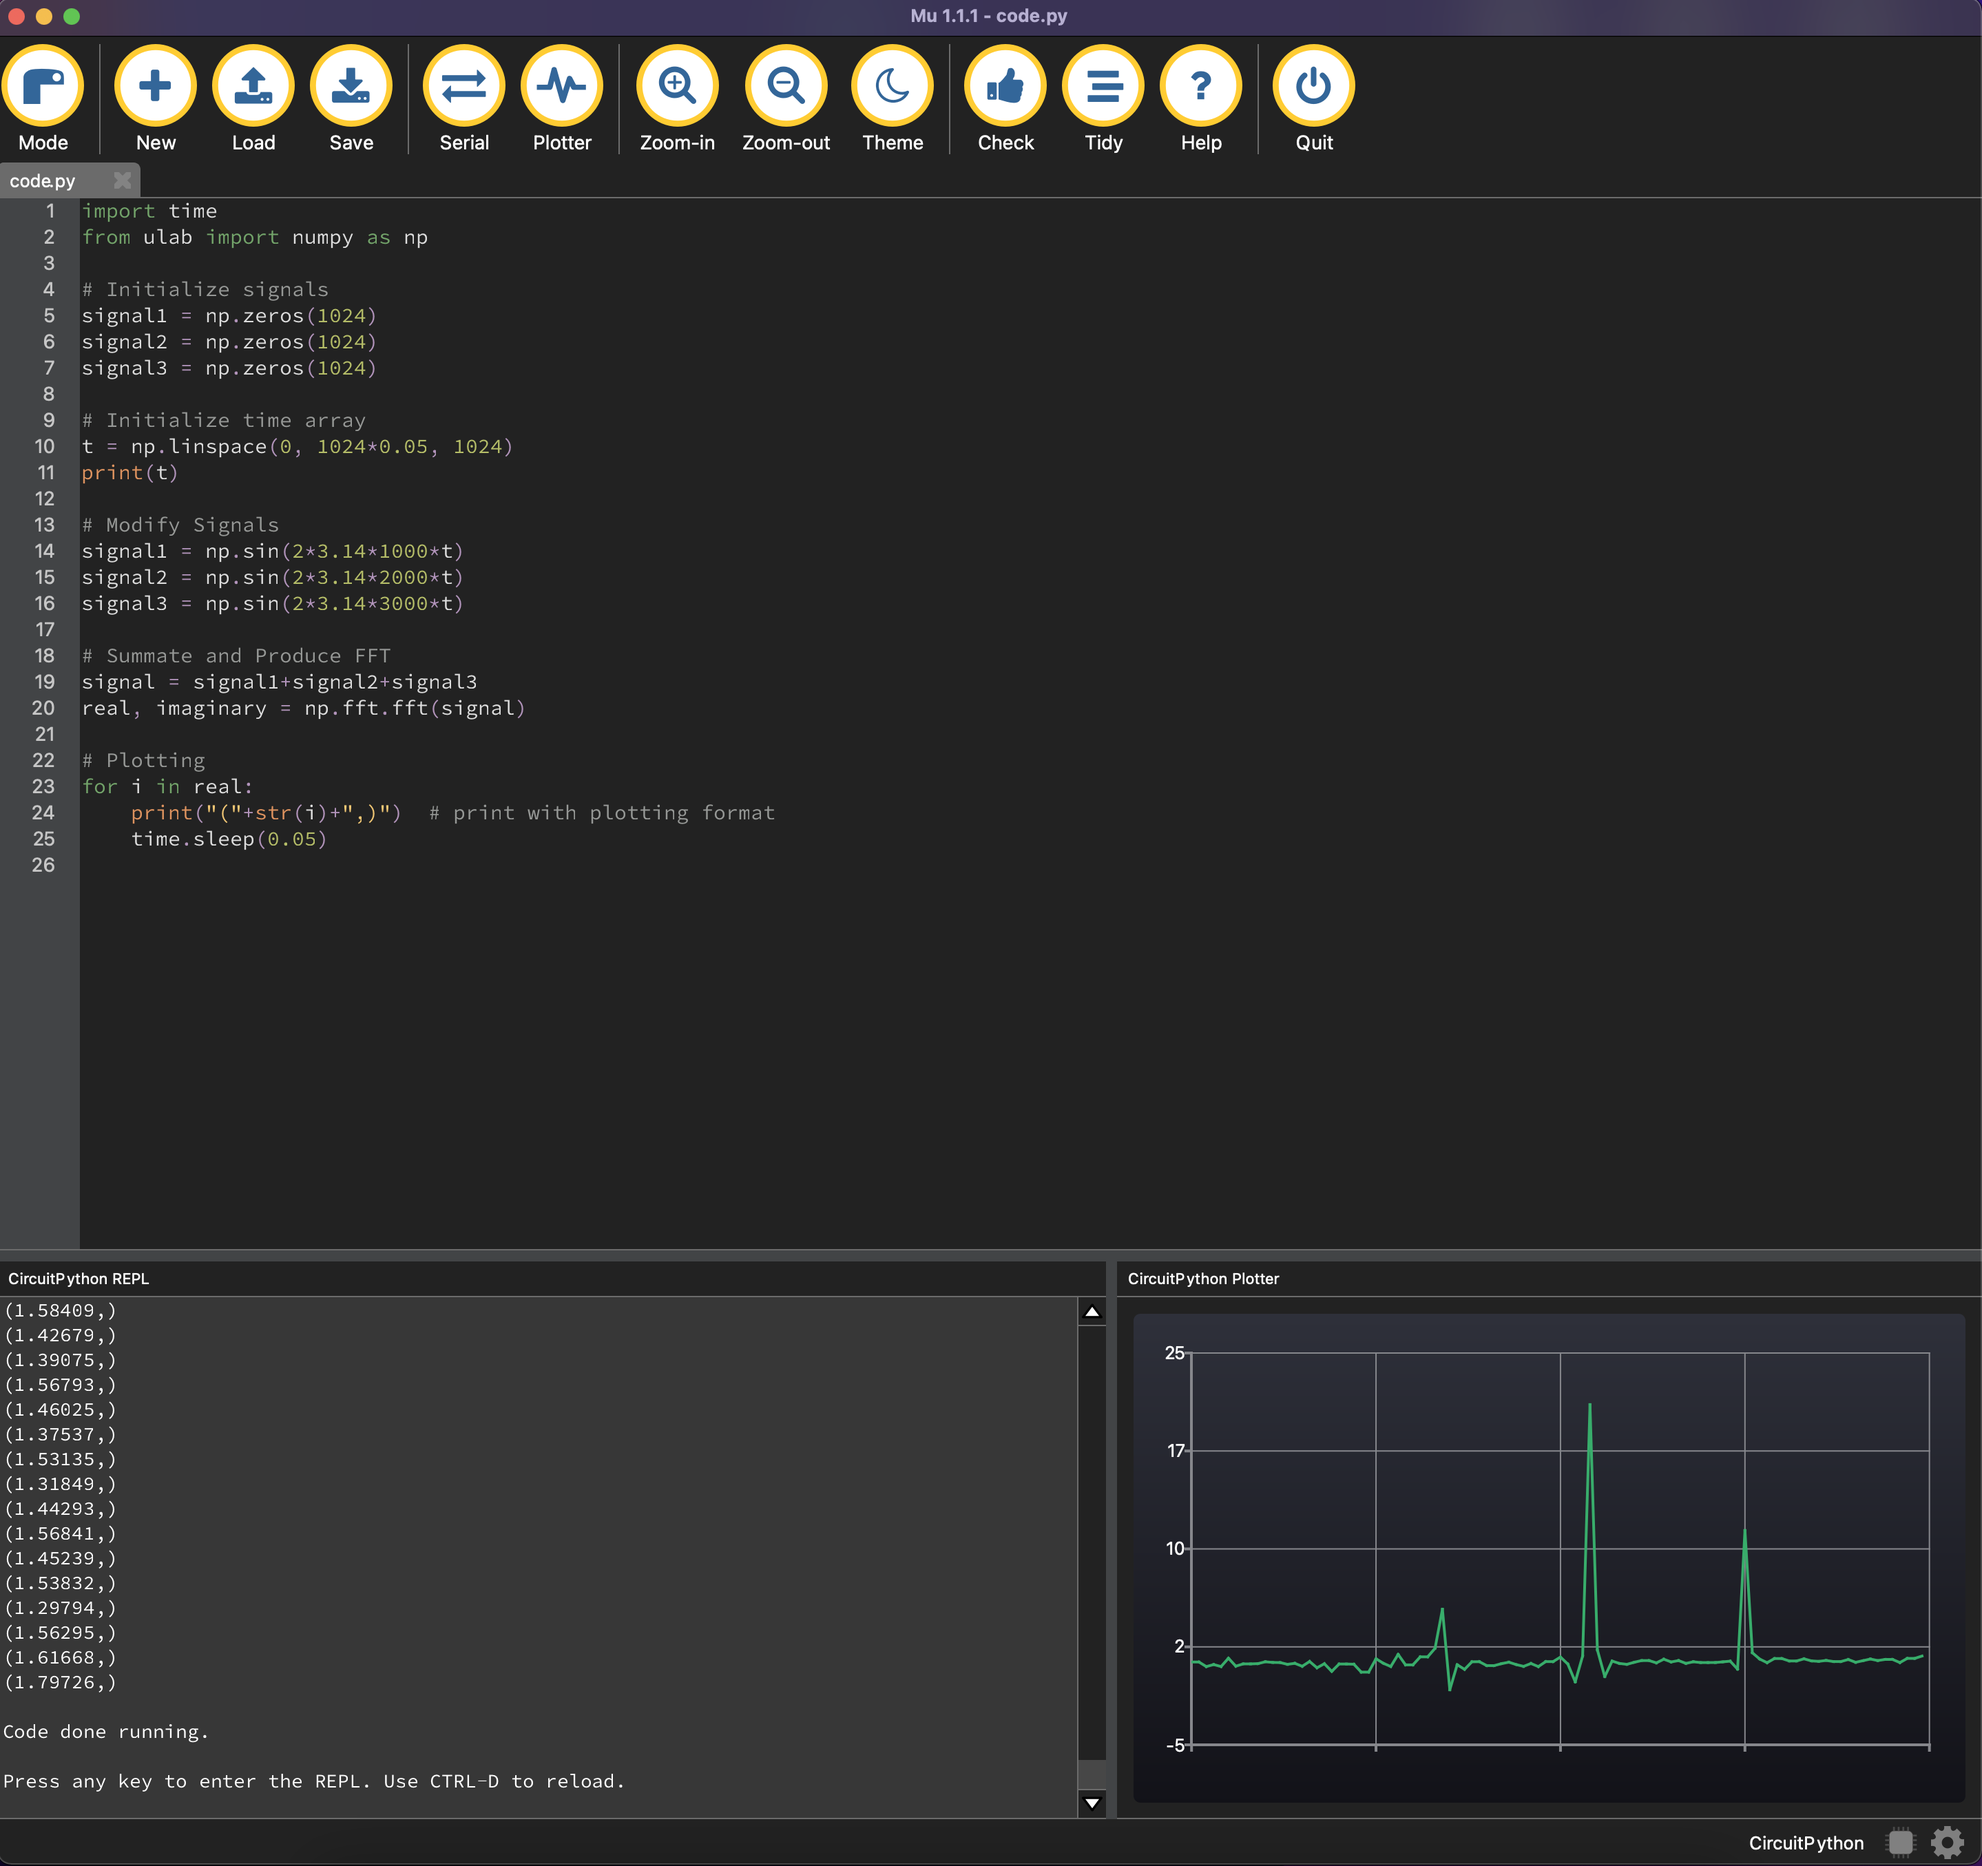
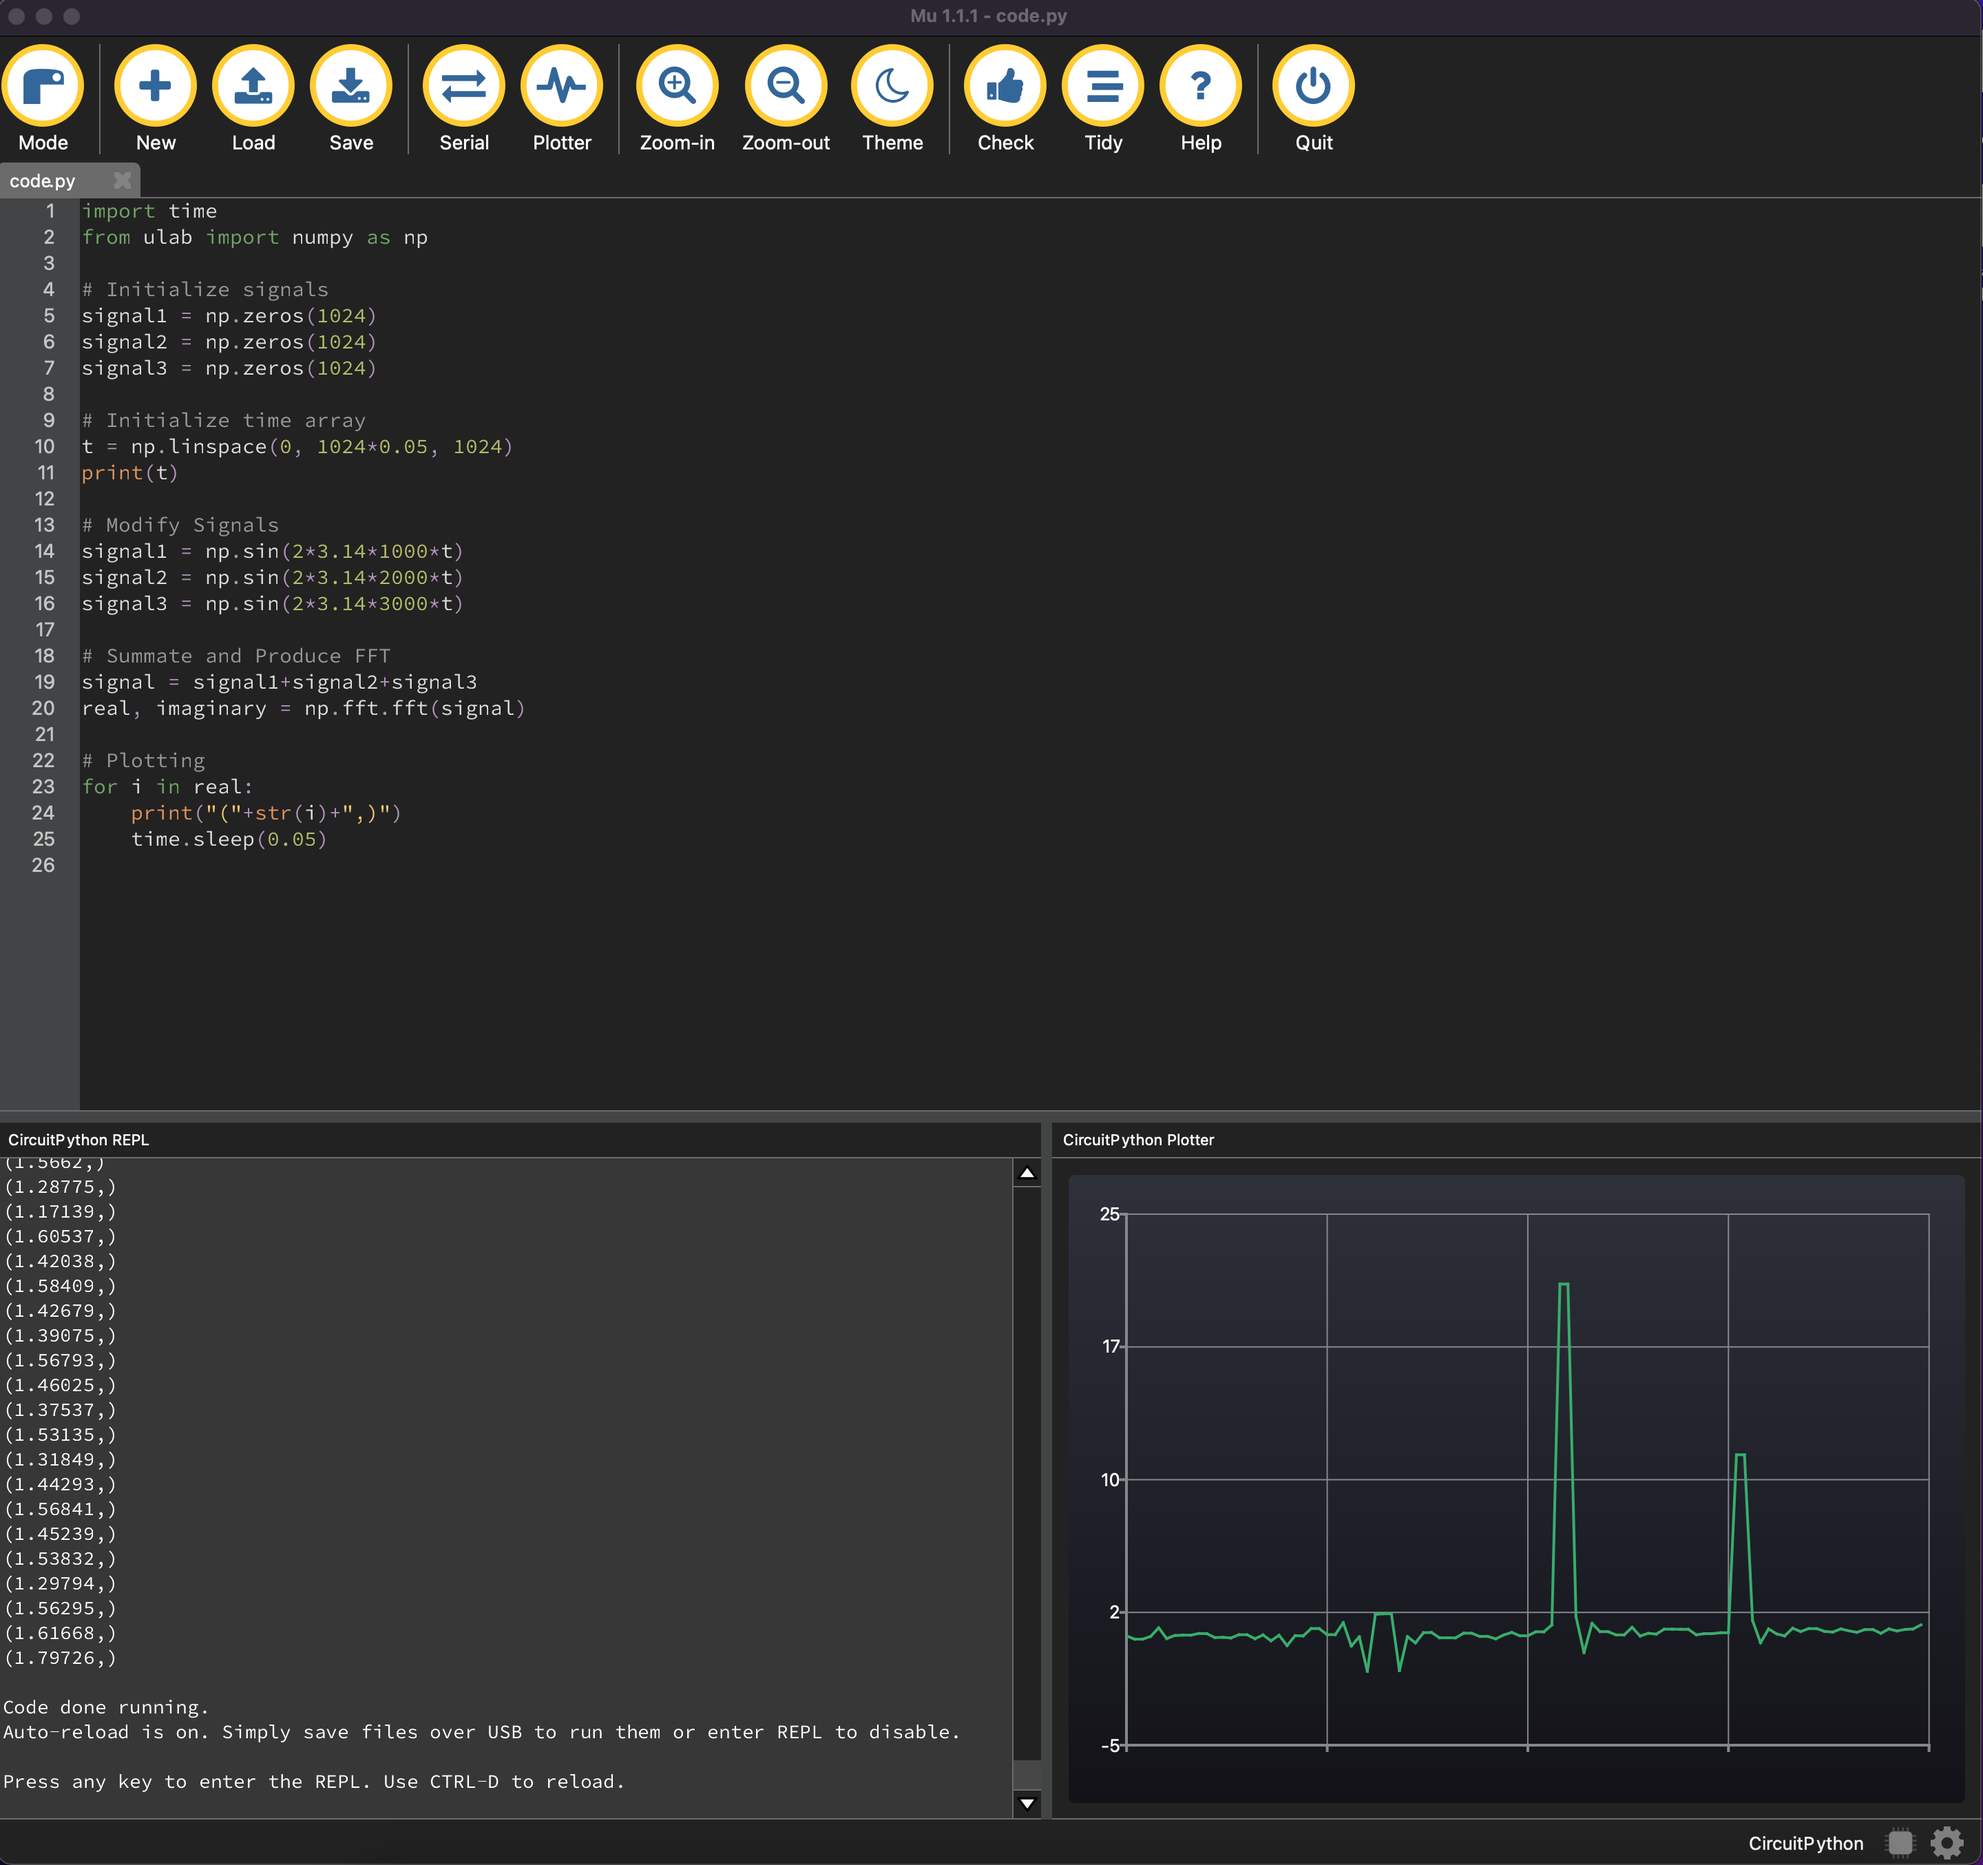
HW10 V1.1
Minor Updates

diff --git a/HW10/code.py b/HW10/code.py
@@ -21,5 +21,5 @@ real, imaginary = np.fft.fft(signal)
 
 # Plotting
 for i in real:
-    print("("+str(i)+",)")  # print with plotting format
+    print("("+str(i)+",)")
     time.sleep(0.05)
